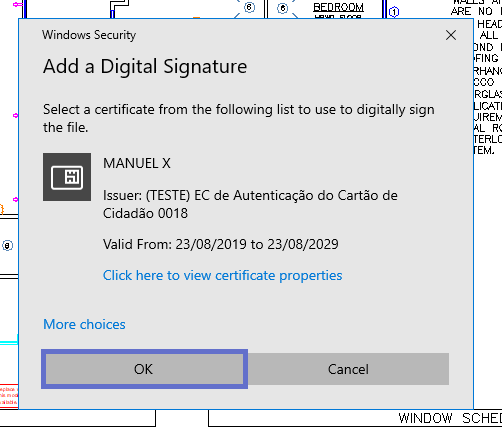
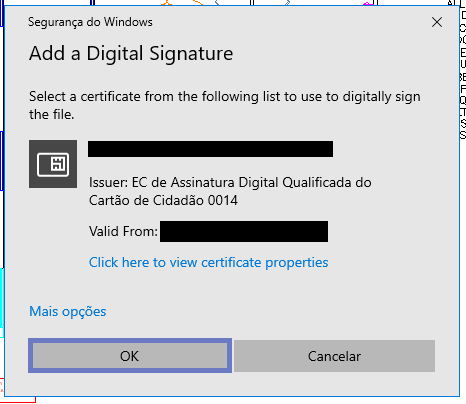
Update DWF signature section in the user manual

Changed region(s): [[0.0, 0.0, 1.0, 1.0]]

diff --git a/user_manual.md b/user_manual.md
@@ -1361,7 +1361,7 @@ em *Firefox*.
 
 ## Assinatura digital de ficheiros DWG e DWF
 
-**1.** Em primeiro lugar  deverá ter instalado no seu computador o **Autodesk Design Review**.
+**1.** Em primeiro lugar  deverá ter instalado no seu computador o **Autodesk Design Review 2013** (as versões mais recentes não disponibilizam a funcionalidade de assinatura digital).
 
 **2.** Abra o ficheiro DWF ou DWG na aplicação.
 
@@ -1377,7 +1377,8 @@ em *Firefox*.
 
 ![Ilustração: Assinatura DWF 3](Pictures/Autenticacao.Gov_dwf3.png "Assinatura de ficheiros DWF"){:.center}
 
-**6.** Nesta janela vai aparecer os certificados presentes do computador, pode carregar em **More choices** para selecionar outro certificado. Caso não seja necessário, basta carregar **OK**:
+**6.** Nesta janela vai aparecer os certificados presentes do computador, pode carregar em **Mais Opções** para selecionar outro certificado. Certifique-se que o certificado selecionado corresponde ao de assinatura digital. Por fim, basta carregar **OK**:
+
 ![Ilustração: Assinatura DWF 4](Pictures/Autenticacao.Gov_dwf4.png "Assinatura de ficheiros DWF"){:.center}
 
 **7.** Introduza o pin pedido na janela:
@@ -1385,6 +1386,7 @@ em *Firefox*.
 ![Ilustração: Assinatura DWF 5](Pictures/Autenticacao.Gov_dwf5.png "Assinatura de ficheiros DWF"){:.center}
 
 **8.** Após este procedimento, o processo de assinatura digital está concluído e vai aparecer uma janela a confirmar que assinatura está valida:
+
 ![Ilustração: Assinatura DWF 6](Pictures/Autenticacao.Gov_dwf6.png "Assinatura de ficheiros DWF"){:.center}
 
 
